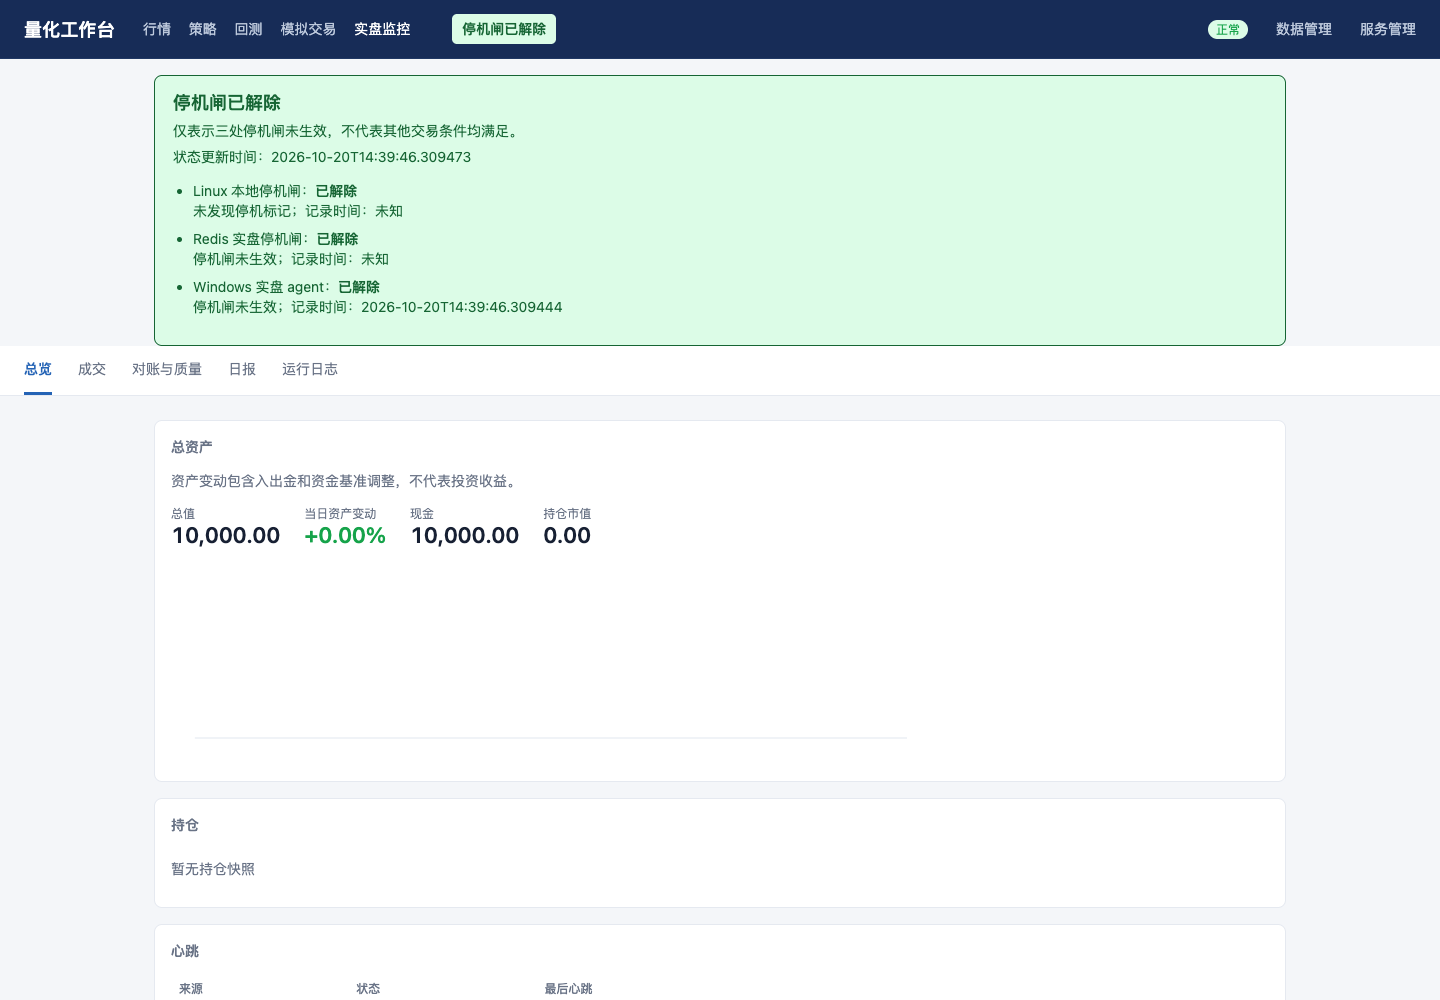
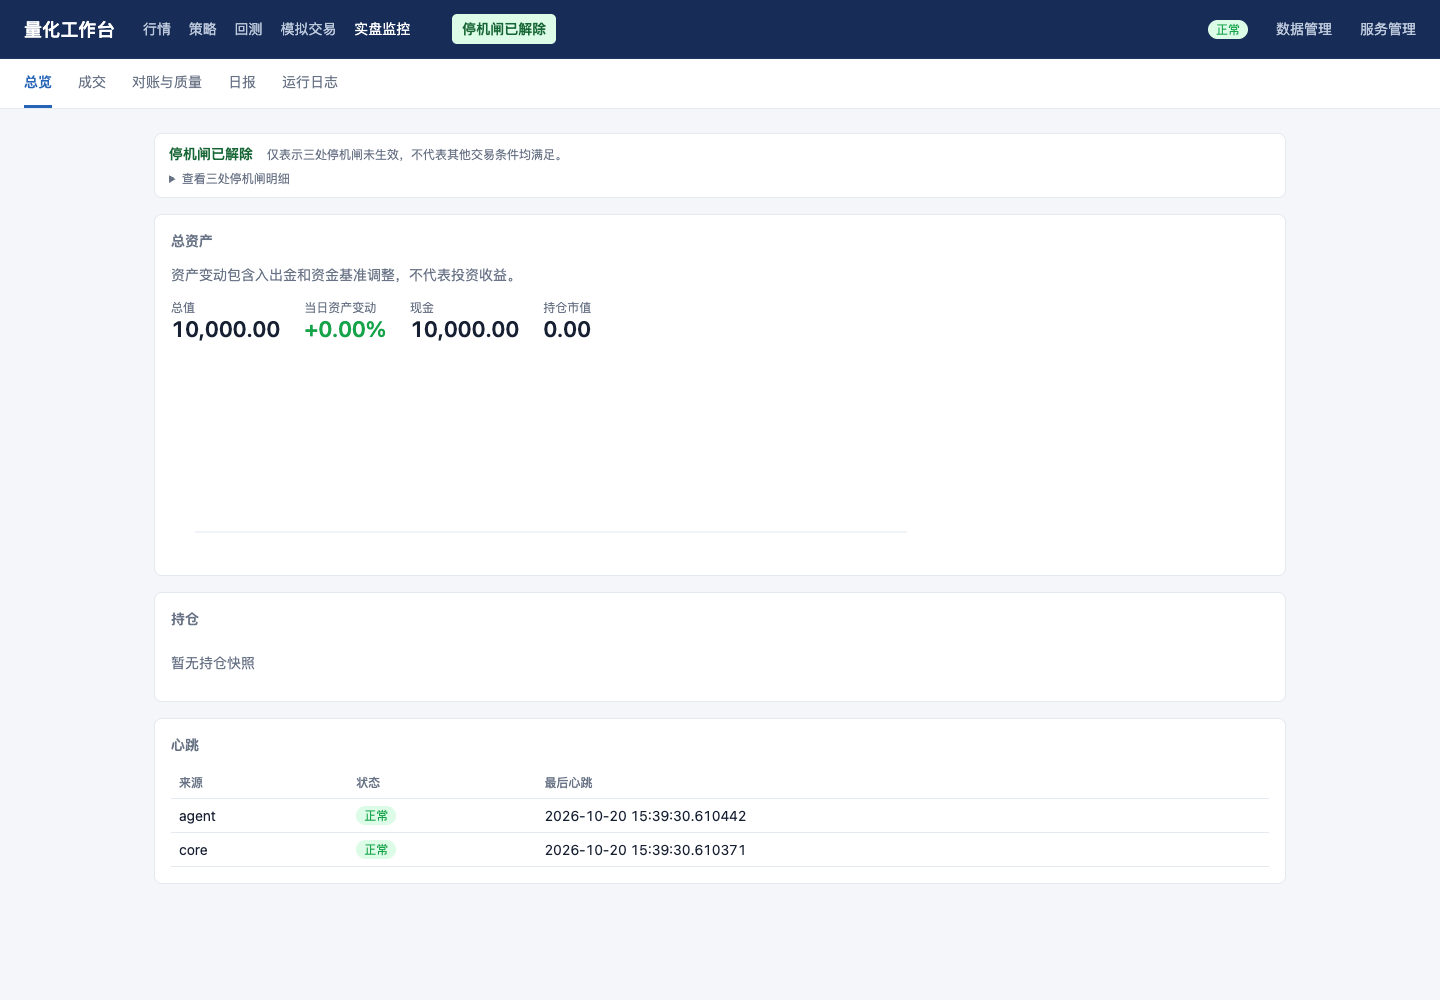
fix(web): 收起停机闸明细并恢复两级导航布局 (#450)

diff --git a/src/qsys/web/templates/_live_kill_status.html b/src/qsys/web/templates/_live_kill_status.html
@@ -3,19 +3,27 @@
 .kill-clear { background:#dcfce7; color:#166534; }
 .kill-stopped { background:#fee2e2; color:#991b1b; }
 .kill-unknown { background:#fef3c7; color:#92400e; }
-.kill-panel { max-width:1132px; margin:16px auto 0; padding:14px 18px; border-radius:8px; border:1px solid currentColor; }
-.kill-panel h2 { font-size:18px; margin:0 0 6px; }
-.kill-panel p { margin:6px 0; }
-.kill-panel ul { padding-left:20px; overflow-wrap:anywhere; }
+.kill-panel { margin:0 0 16px; padding:10px 14px; border-radius:8px; border:1px solid currentColor; overflow-wrap:anywhere; }
+.kill-panel.kill-clear { background:#fff; color:var(--muted); border-color:var(--line); }
+.kill-summary { display:flex; align-items:baseline; flex-wrap:wrap; gap:6px 14px; }
+.kill-summary strong { font-size:14px; }
+.kill-panel.kill-clear .kill-summary strong { color:#166534; }
+.kill-summary p { margin:0; font-size:12px; flex:1; }
+.kill-panel details { margin-top:6px; font-size:12px; }
+.kill-panel summary { cursor:pointer; width:fit-content; }
+.kill-panel details p { margin:10px 0 6px; }
+.kill-panel ul { padding-left:18px; margin:6px 0 0; }
 .kill-panel li { margin:8px 0; }
-@media(max-width:700px) { .kill-panel { margin:12px 14px 0; } }
+#live-kill-notice { font-size:12px; }
 </style>
 {% if page == 'live' %}
 <aside id="live-kill-panel" class="kill-panel kill-{{ live_kill.state }}" role="status" aria-live="polite">
-<h2 id="live-kill-title">{{ live_kill.label }}</h2>
-<p id="live-kill-message">{{ live_kill.message }}</p>
+<div class="kill-summary"><strong id="live-kill-title">{{ live_kill.label }}</strong>
+<p id="live-kill-message">{{ live_kill.message }}</p></div>
+<details id="live-kill-details"><summary>查看三处停机闸明细</summary>
 <p>状态更新时间：<span id="live-kill-checked">{{ live_kill.checked_at }}</span></p>
 <ul>{% for source in live_kill.sources %}<li>{{ source.name }}：<strong id="live-kill-{{ source.id }}-state">{{ {'clear':'已解除','stopped':'已停机','unknown':'未知'}[source.state] }}</strong><br><span id="live-kill-{{ source.id }}-reason">{{ source.reason }}</span>；记录时间：<span id="live-kill-{{ source.id }}-time">{{ source.recorded_at or '未知' }}</span></li>{% endfor %}</ul>
+</details>
 </aside>
 {% endif %}
 <div id="live-kill-notice" class="kill-panel kill-unknown" role="status" aria-live="polite" hidden></div>
@@ -43,7 +51,7 @@
       text('live-kill-' + id + '-time', '未知');
     });
     if (initialized && previous !== 'unknown') {
-      notice.hidden = false; notice.className = 'kill-panel kill-unknown';
+      notice.hidden = Boolean(panel); notice.className = 'kill-panel kill-unknown';
       notice.textContent = '停机状态未知：状态已过期或刷新失败。';
     }
     if (initialized) previous = 'unknown';
@@ -83,7 +91,7 @@
         text('live-kill-' + source.id + '-time', source.recorded_at || '未知');
       });
       if (initialized && previous !== data.state) {
-        notice.hidden = false; notice.className = 'kill-panel kill-' + data.state;
+        notice.hidden = Boolean(panel); notice.className = 'kill-panel kill-' + data.state;
         notice.textContent = data.label + '：' + data.message;
       }
       previous = data.state; initialized = true;

diff --git a/src/qsys/web/templates/base.html b/src/qsys/web/templates/base.html
@@ -137,7 +137,6 @@ button:disabled { opacity:.55; cursor:not-allowed; }
   <a class="utility-link {{ 'active' if page and page.startswith('data') }}" href="/data">数据管理</a>
   <a class="utility-link {{ 'active' if page and page.startswith('services') }}" href="/services">服务管理</a>
 </header>
-{% include '_live_kill_status.html' %}
 {% if page in ('strategies', 'backtests', 'research_jobs', 'paper') %}
 <div class="subnav"><a href="/strategies" class="{{ 'active' if page == 'strategies' }}">策略研究</a><a href="/backtests" class="{{ 'active' if page == 'backtests' }}">回测记录</a>{% if request.app.state.research_jobs_enabled %}<a href="/research-jobs" class="{{ 'active' if page == 'research_jobs' }}">隔离研究</a>{% endif %}<a href="/paper" class="{{ 'active' if page == 'paper' }}">模拟交易</a></div>
 {% elif page in ('market', 'limit_up_shadow', 'limit_up_research') %}
@@ -147,7 +146,7 @@ button:disabled { opacity:.55; cursor:not-allowed; }
 {% elif session and page in ('live','overview','trades','health','report','runs') %}
 <div class="subnav"><a href="/s/{{ session }}" class="{{ 'active' if page in ('live','overview') }}">总览</a><a href="/s/{{ session }}/trades" class="{{ 'active' if page == 'trades' }}">成交</a><a href="/s/{{ session }}/health" class="{{ 'active' if page == 'health' }}">对账与质量</a><a href="/s/{{ session }}/report" class="{{ 'active' if page == 'report' }}">日报</a><a href="/s/{{ session }}/runs" class="{{ 'active' if page == 'runs' }}">运行日志</a></div>
 {% endif %}
-<main class="{{ 'workbench' if page in ('strategies', 'backtests', 'research_jobs', 'paper') else '' }}">{% block content %}{% endblock %}</main>
+<main class="{{ 'workbench' if page in ('strategies', 'backtests', 'research_jobs', 'paper') else '' }}">{% include '_live_kill_status.html' %}{% block content %}{% endblock %}</main>
 {% if session and not (page and page.startswith('data')) %}
 <script>
 // 零外部依赖的自动刷新：每 15 秒拉一次状态片段。
